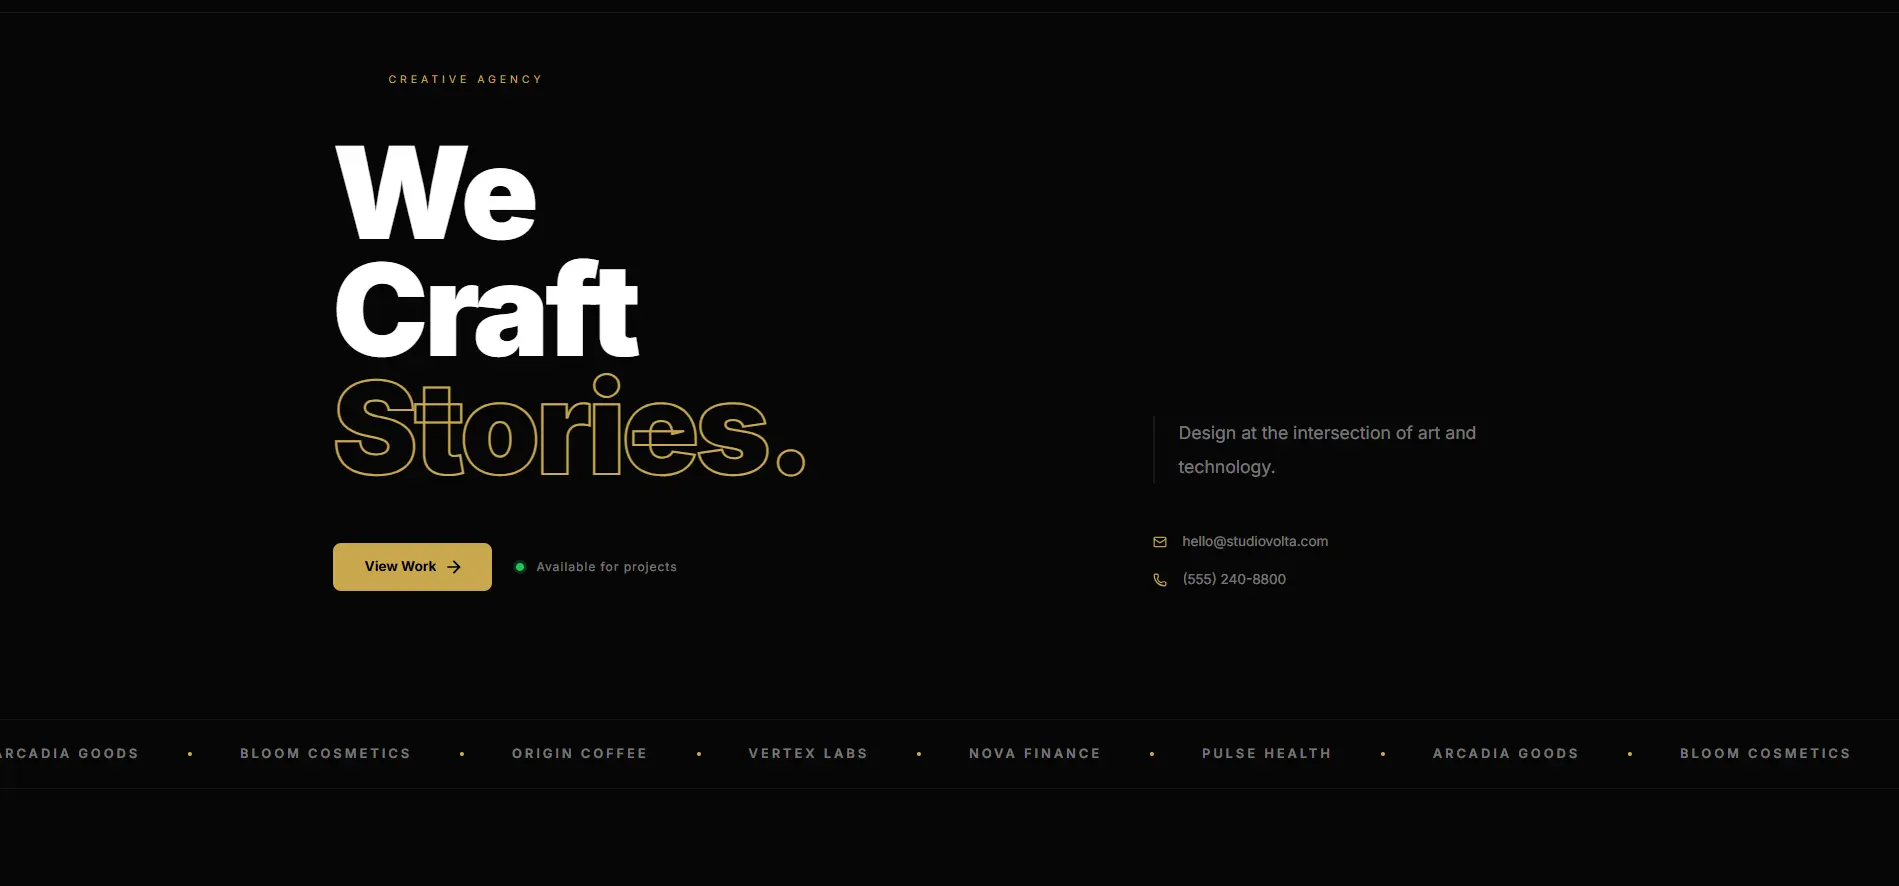
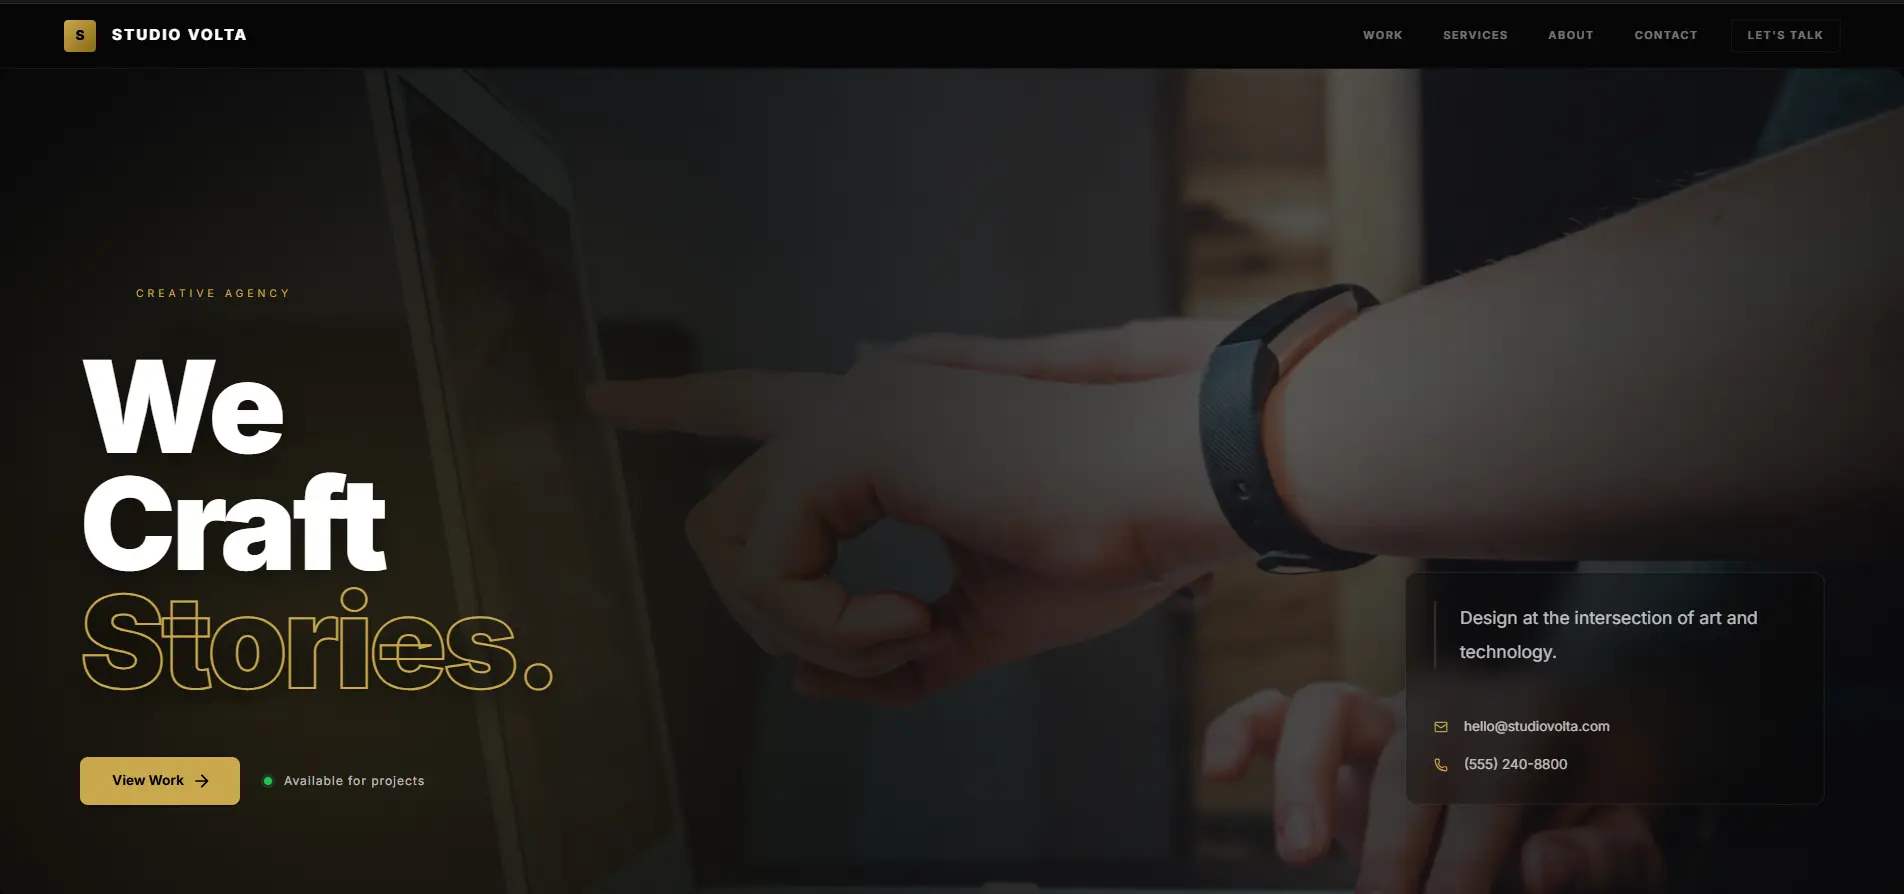
feat: add sitemap generation script and update build process to include sitemap generation

diff --git a/scripts/generate-sitemap.js b/scripts/generate-sitemap.js
@@ -1,0 +1,269 @@
+import fs from "node:fs";
+import path from "node:path";
+import { pathToFileURL } from "node:url";
+
+const TODAY = new Date().toISOString().slice(0, 10);
+const projectRoot = process.cwd();
+
+const readEnvFile = (filePath) => {
+  if (!fs.existsSync(filePath)) {
+    return {};
+  }
+
+  return fs
+    .readFileSync(filePath, "utf8")
+    .split(/\r?\n/)
+    .reduce((acc, line) => {
+      const trimmed = line.trim();
+      if (!trimmed || trimmed.startsWith("#")) {
+        return acc;
+      }
+
+      const separatorIndex = trimmed.indexOf("=");
+      if (separatorIndex === -1) {
+        return acc;
+      }
+
+      const key = trimmed.slice(0, separatorIndex).trim();
+      const rawValue = trimmed.slice(separatorIndex + 1).trim();
+      const value = rawValue.replace(/^['"]|['"]$/g, "");
+
+      acc[key] = value;
+      return acc;
+    }, {});
+};
+
+const env = {
+  ...readEnvFile(path.join(projectRoot, ".env")),
+  ...readEnvFile(path.join(projectRoot, ".env.production")),
+  ...process.env,
+};
+
+const normalizeSiteUrl = (url) => {
+  if (!url) {
+    return "https://techietribe.com";
+  }
+
+  return url.endsWith("/") ? url.slice(0, -1) : url;
+};
+
+const SITE_URL = normalizeSiteUrl(
+  env.SITE_URL || env.VITE_SITE_URL || env.VITE_APP_URL,
+);
+
+const EXCLUDED_PREFIXES = [
+  "/auth",
+  "/dashboard",
+  "/template-preview",
+  "/landing-preview",
+  "/checkout",
+  "/site/",
+];
+
+const MANUAL_ROUTES = [
+  "/",
+  "/about",
+  "/pricing",
+  "/templates",
+  "/listings",
+  "/directory",
+  "/contact",
+  "/blog",
+  "/faq",
+  "/privacy-policy",
+  "/cookie-policy",
+  "/terms-and-conditions",
+];
+
+const ROUTE_SOURCE_FILES = [path.join(projectRoot, "src", "App.tsx")];
+
+const normalizeRoute = (route) => {
+  if (!route) {
+    return null;
+  }
+
+  let normalized = route.trim();
+
+  if (!normalized.startsWith("/")) {
+    return null;
+  }
+
+  if (normalized !== "/" && normalized.endsWith("/")) {
+    normalized = normalized.slice(0, -1);
+  }
+
+  return normalized;
+};
+
+const isIndexableRoute = (route) => {
+  if (!route || route === "*") {
+    return false;
+  }
+
+  if (route.includes("*") || route.includes(":") || route.includes("?")) {
+    return false;
+  }
+
+  if (EXCLUDED_PREFIXES.some((prefix) => route.startsWith(prefix))) {
+    return false;
+  }
+
+  return true;
+};
+
+const extractRoutesFromFile = (filePath) => {
+  const content = fs.readFileSync(filePath, "utf8");
+  const matches = new Set();
+  const routePatterns = [
+    /\bpath\s*:\s*["'`]([^"'`]+)["'`]/g,
+    /\bhref\s*:\s*["'`]([^"'`]+)["'`]/g,
+    /\bto\s*=\s*["'`]([^"'`]+)["'`]/g,
+  ];
+
+  for (const pattern of routePatterns) {
+    let match;
+    while ((match = pattern.exec(content)) !== null) {
+      const route = normalizeRoute(match[1]);
+      if (isIndexableRoute(route)) {
+        matches.add(route);
+      }
+    }
+  }
+
+  return matches;
+};
+
+const discoverRoutes = () => {
+  const allRoutes = new Set(MANUAL_ROUTES);
+  const sourceFiles = ROUTE_SOURCE_FILES.filter((filePath) =>
+    fs.existsSync(filePath),
+  );
+
+  for (const filePath of sourceFiles) {
+    const routes = extractRoutesFromFile(filePath);
+    for (const route of routes) {
+      allRoutes.add(route);
+    }
+  }
+
+  return [...allRoutes]
+    .map(normalizeRoute)
+    .filter(isIndexableRoute)
+    .sort((a, b) => {
+      if (a === "/") {
+        return -1;
+      }
+      if (b === "/") {
+        return 1;
+      }
+      return a.localeCompare(b);
+    });
+};
+
+const getRouteMetadata = (loc) => {
+  if (loc === "/") {
+    return { changefreq: "weekly", priority: "1.0" };
+  }
+
+  if (loc === "/blog" || loc.startsWith("/case-study")) {
+    return { changefreq: "weekly", priority: "0.8" };
+  }
+
+  if (loc === "/directory" || loc === "/listings") {
+    return { changefreq: "daily", priority: "0.8" };
+  }
+
+  if (
+    loc === "/privacy-policy" ||
+    loc === "/cookie-policy" ||
+    loc === "/terms-and-conditions"
+  ) {
+    return { changefreq: "yearly", priority: "0.4" };
+  }
+
+  if (loc === "/faq" || loc === "/contact") {
+    return { changefreq: "monthly", priority: "0.7" };
+  }
+
+  return { changefreq: "monthly", priority: "0.8" };
+};
+
+const STATIC_ROUTES = discoverRoutes().map((loc) => ({
+  loc,
+  ...getRouteMetadata(loc),
+}));
+
+const getDynamicBlogRoutes = async () => {
+  const insightsFilePath = path.join(projectRoot, "src", "utils", "data", "Insights.js");
+
+  if (!fs.existsSync(insightsFilePath)) {
+    return [];
+  }
+
+  const insightsModule = await import(pathToFileURL(insightsFilePath).href);
+  const insightData = Array.isArray(insightsModule.InsightData)
+    ? insightsModule.InsightData
+    : [];
+
+  return insightData
+    .map((item) => item?.slug || item?.legacyId || item?.id)
+    .filter(Boolean)
+    .map((identifier) => ({
+      loc: `/blogdetail/${identifier}`,
+      changefreq: "weekly",
+      priority: "0.7",
+    }));
+};
+
+const xmlEscape = (value) =>
+  value
+    .replace(/&/g, "&amp;")
+    .replace(/</g, "&lt;")
+    .replace(/>/g, "&gt;")
+    .replace(/"/g, "&quot;")
+    .replace(/'/g, "&apos;");
+
+const routeToXml = (route) => {
+  const absoluteUrl = `${SITE_URL}${route.loc}`;
+
+  return [
+    "  <url>",
+    `    <loc>${xmlEscape(absoluteUrl)}</loc>`,
+    `    <lastmod>${TODAY}</lastmod>`,
+    `    <changefreq>${route.changefreq}</changefreq>`,
+    `    <priority>${route.priority}</priority>`,
+    "  </url>",
+  ].join("\n");
+};
+
+const buildSitemap = async () => {
+  const dynamicBlogRoutes = await getDynamicBlogRoutes();
+  const allRoutes = [...STATIC_ROUTES, ...dynamicBlogRoutes].filter(
+    (route, index, arr) =>
+      arr.findIndex((candidate) => candidate.loc === route.loc) === index,
+  );
+
+  const sitemapXml = [
+    '<?xml version="1.0" encoding="UTF-8"?>',
+    '<urlset xmlns="http://www.sitemaps.org/schemas/sitemap/0.9">',
+    ...allRoutes.map(routeToXml),
+    "</urlset>",
+    "",
+  ].join("\n");
+
+  const outputPaths = [
+    path.join(projectRoot, "public", "sitemap.xml"),
+    path.join(projectRoot, "dist", "sitemap.xml"),
+  ];
+
+  for (const outputPath of outputPaths) {
+    fs.mkdirSync(path.dirname(outputPath), { recursive: true });
+    fs.writeFileSync(outputPath, sitemapXml, "utf8");
+  }
+
+  console.log(
+    `Sitemap generated with ${allRoutes.length} URLs -> ${outputPaths.join(", ")}`,
+  );
+};
+
+await buildSitemap();
